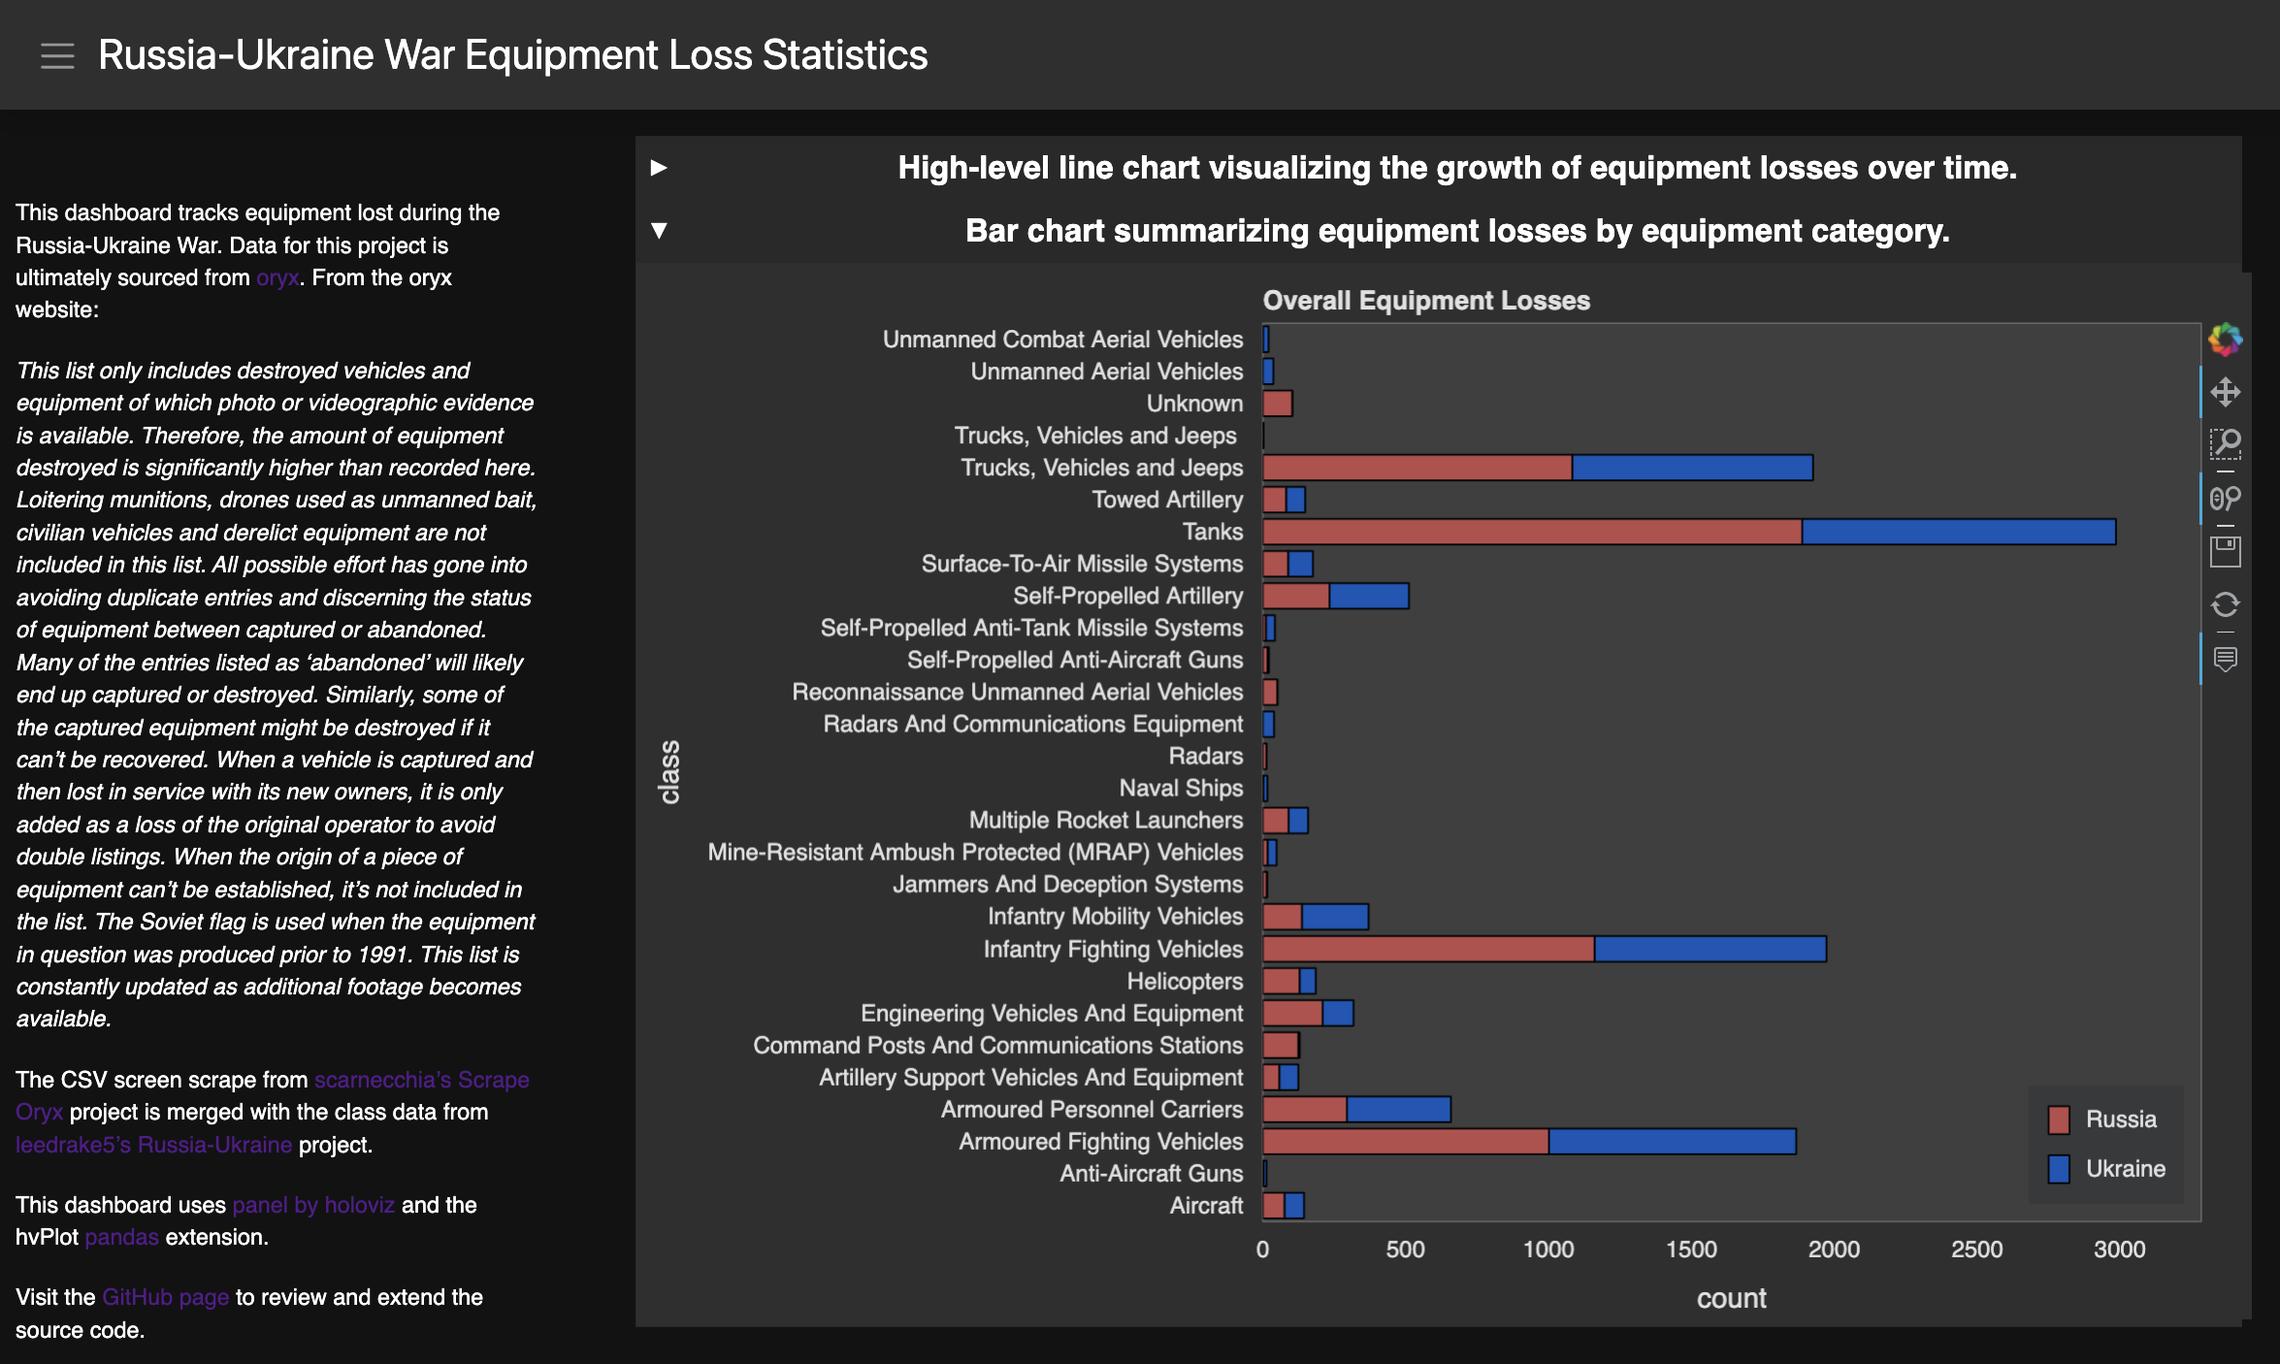
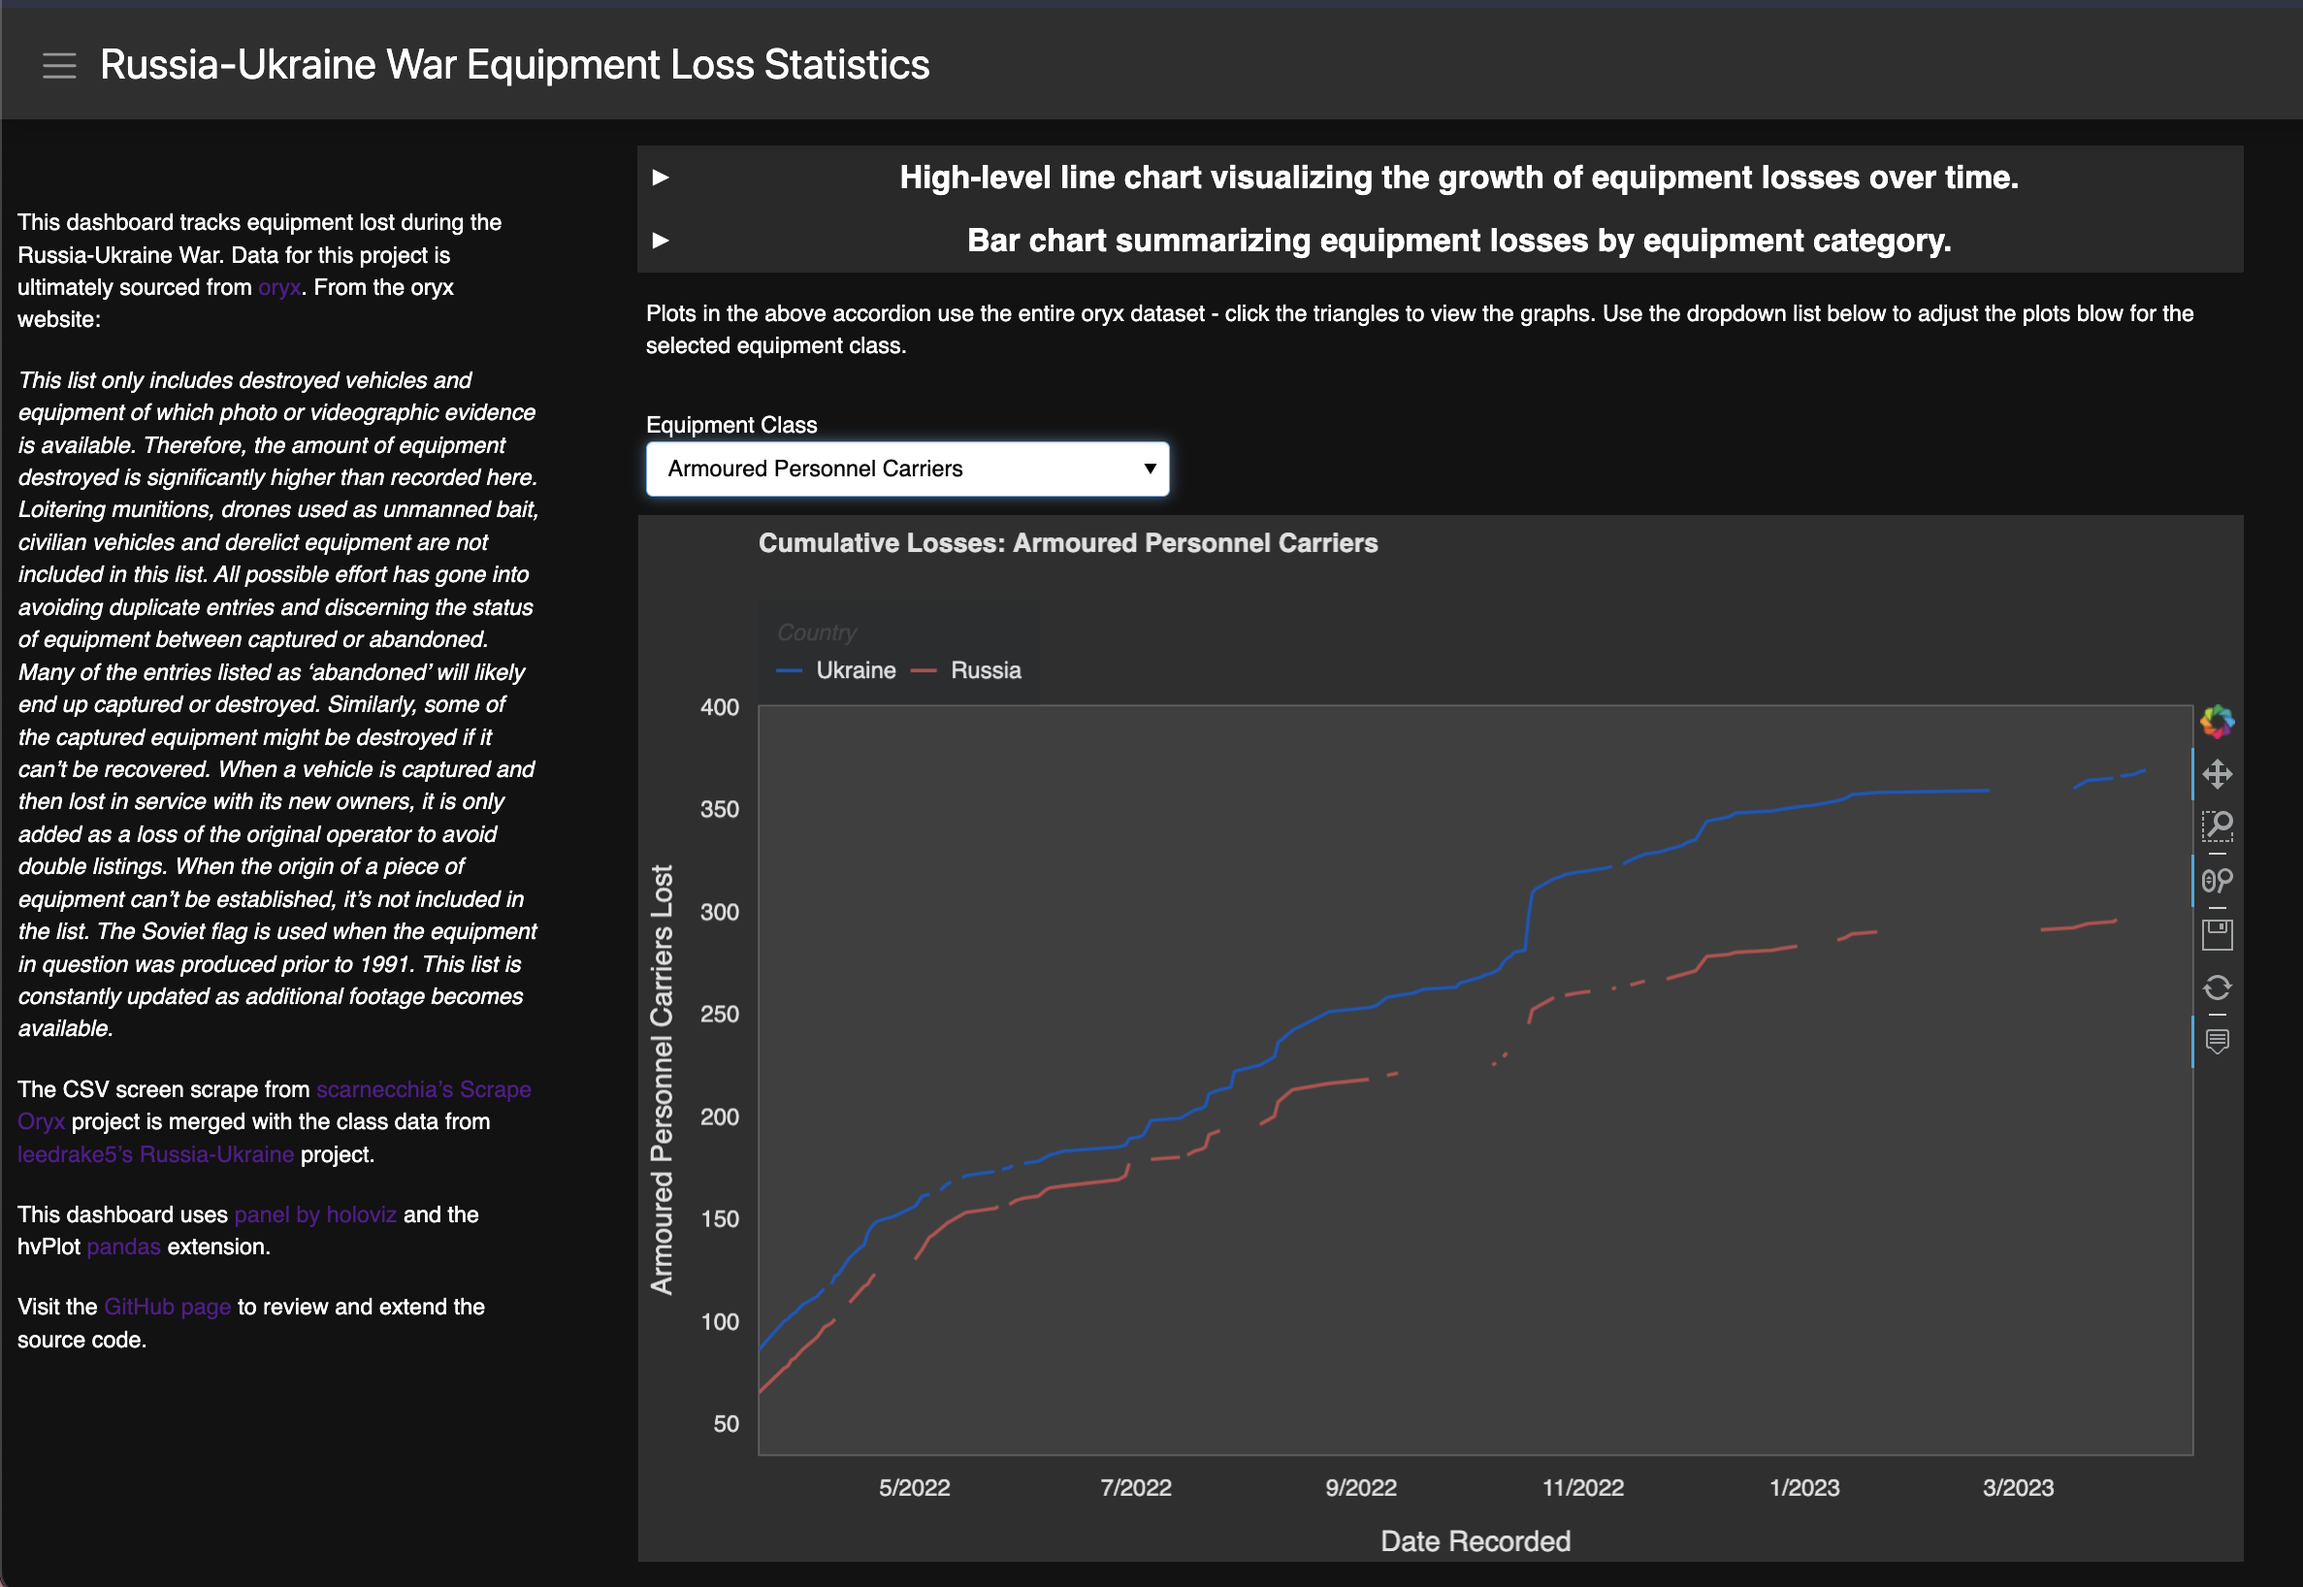
updating screenshot

diff --git a/RussiaUkraineWar.py b/RussiaUkraineWar.py
@@ -42,8 +42,9 @@ oryx["system"] = oryx["system"].astype("category")
 oryx["origin"] = oryx["origin"].astype("category")
 oryx.rename(columns={"country_y": "Country"}, inplace=True)
 oryx.interactive()
-UKRAINE_COLOR = "#b94d4d"
-RUSSIA_COLOR = "#0057b7"
+UKRAINE_COLOR = "#0057b7"
+RUSSIA_COLOR = "#b94d4d"
+DEFAULT_CLASS = "Tanks"
 
 
 # overall plot
@@ -89,7 +90,6 @@ def cumulative_losses_by_class_plot(oryx, equipment_class):
         .count()
     )
     step_two = pd.pivot_table(
-        # step_one[step_one["class"] == "tanks"],
         step_one,
         values="country_x",
         index="date_recorded",
@@ -110,11 +110,11 @@ def cumulative_losses_by_class_plot(oryx, equipment_class):
 
 overall_plot = overall_plot(oryx)
 cumulative_losses_plot = cumulative_losses_plot(oryx)
-initial_plot = cumulative_losses_by_class_plot(oryx, "Tanks")
+initial_plot = cumulative_losses_by_class_plot(oryx, DEFAULT_CLASS)
 cl_class_plot_panel = pn.pane.HoloViews(initial_plot)
 
 equipment_class_select = pn.widgets.Select(
-    name="Equipment Class", options=oryx["class"].unique().tolist(), value="Tanks"
+    name="Equipment Class", options=oryx["class"].unique().tolist(), value=DEFAULT_CLASS
 )
 
 

diff --git a/README.md b/README.md
@@ -1,5 +1,5 @@
 # RussiaUkraineWarEquipmentLosses
-![preview image](images/dashboard_screenshot2.png)
+![preview image](images/dashboard_screenshot1.png)
 
 This dashboard tracks equipment lost during the Russia-Ukraine War. 
 Data for this project is ultimately sourced from [oryx](https://www.oryxspioenkop.com/2022/02/attack-on-europe-documenting-equipment.html).
